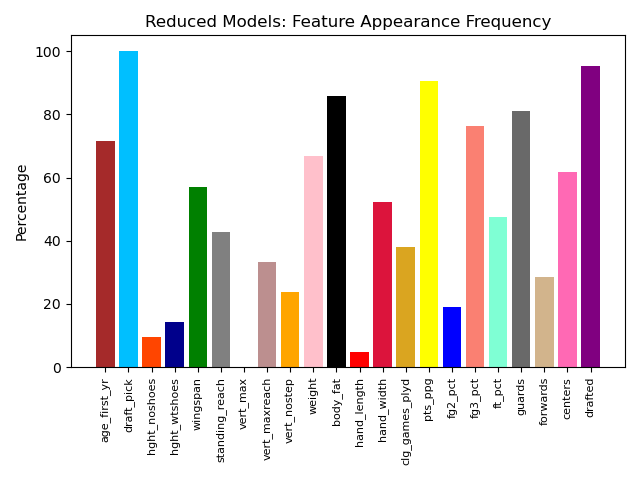
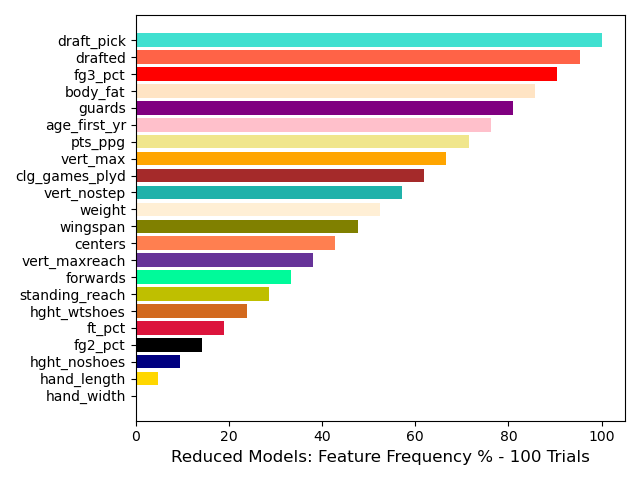
Horizontal bar graph of RFE made.

diff --git a/Regression_DimRed.py b/Regression_DimRed.py
@@ -58,19 +58,12 @@ def regression(trainData, testData, tally):
   X_test =testData.drop(columns=['draft_yr','rpg', 'ast','success']) # Drop draft pick?
   y_train=trainData['success'].values
   y_test =testData ['success'].values
-  
-  # lm = LogisticRegression(random_state = 0)
-  # lm.fit(X_train, y_train)
-  # pred=lm.predict(X_test)
 
   # Use this as my base code - https://machinelearningmastery.com/feature-selection-machine-learning-python/
 
   model = LogisticRegression(solver='lbfgs') # lbfgs-Stands for Limited-memory Broyden–Fletcher–Goldfarb–Shanno
-  #nFeatures = 5
+  
   columns = X_train.columns
-  #print(len(columns))
-  #tally = np.zeros(len(columns))
-  #print(f'tally size: {len(tally)}')
   for i in range(1,len(columns)):
     nFeatures = i
     rfe = RFE(model, nFeatures)
@@ -128,31 +121,40 @@ def regression(trainData, testData, tally):
   return correct/len(y_test), confmat, tally
 
 def displayGraph(trainData,pctTally):
-    #fig = plt.figure()
-    colors = ['brown','deepskyblue','orangered','darkblue','green','gray',\
-              'lightblue', 'rosybrown', 'orange', 'pink', 'black','red',\
-              'crimson','goldenrod', 'yellow', 'blue', 'salmon', 'aquamarine',\
-              'dimgray', 'tan', 'hotpink','purple']  # 'tomato','lawngreen', 'darkturquoise','darkorange'
+    colors=['slategray', 'gold', 'navy', 'black', 'crimson', 'chocolate', 'y', 'mediumspringgreen', 'rebeccapurple', 'coral', 'olive', 'papayawhip', 'lightseagreen', 'brown', 'orange', 'khaki', 'pink', 'purple', 'bisque','red', 'tomato', 'turquoise', 'forestgreen', 'blue', 'cyan']
+    # colors = ['brown','deepskyblue','orangered','darkblue','green','gray',\
+    #           'lightblue', 'rosybrown', 'orange', 'pink', 'black','red',\
+    #           'crimson','goldenrod', 'yellow', 'blue', 'salmon', 'aquamarine',\
+    #           'dimgray', 'tan', 'hotpink','purple']  # 'tomato','lawngreen', 'darkturquoise','darkorange'
    
     trainData = trainData.drop(columns=['draft_yr','rpg','ast','success'])
     columns = trainData.columns
     dataTuples = list(zip(columns, pctTally))
     # print(dataTuples)
     df = pd.DataFrame(dataTuples, columns=['feature', 'pct'])
-    df.sort_values(by=['pct'], inplace=True, ascending=False)
-    print(df)
+    df.sort_values(by=['pct'], inplace=True, ascending=True)
+    #print(df)
+
     # print(f'# of pctTally: {len(pctTally)}')
     # print(f'# of colors: {len(colors)}')
     # print(f'# of columns: {len(columns)}')
     # print(columns)
-    nColumns = np.arange(len(columns))
-    plt.title('Reduced Models: Feature Appearance Frequency')
-    plt.ylabel('Percentage')
-    plt.xticks(nColumns, columns, rotation=90, size=8)
+
+    nColumns = np.arange(df['feature'].shape[0])
+    #print(nColumns)
+    columns = df['feature'].tolist()
+    #print(len(columns))
+
+    plt.xlabel('Reduced Models: Feature Frequency % - 100 Trials', fontsize=12)
+    # Create horizontal bars
+    plt.barh(nColumns, df['pct'], color=colors, align='center')
+    # Create names on the y-axis
+    plt.yticks(nColumns, columns) #rotation=90, , size=8
     #plt.grid(color='#95a5a6', linestyle='--', linewidth=0.75, axis='y', alpha=0.5)
-    plt.bar(columns,pctTally,color=colors, align='center')
+    # Show graphic
     plt.tight_layout()
     plt.show()
+
 
 def main():
   timeStart = time.time()
